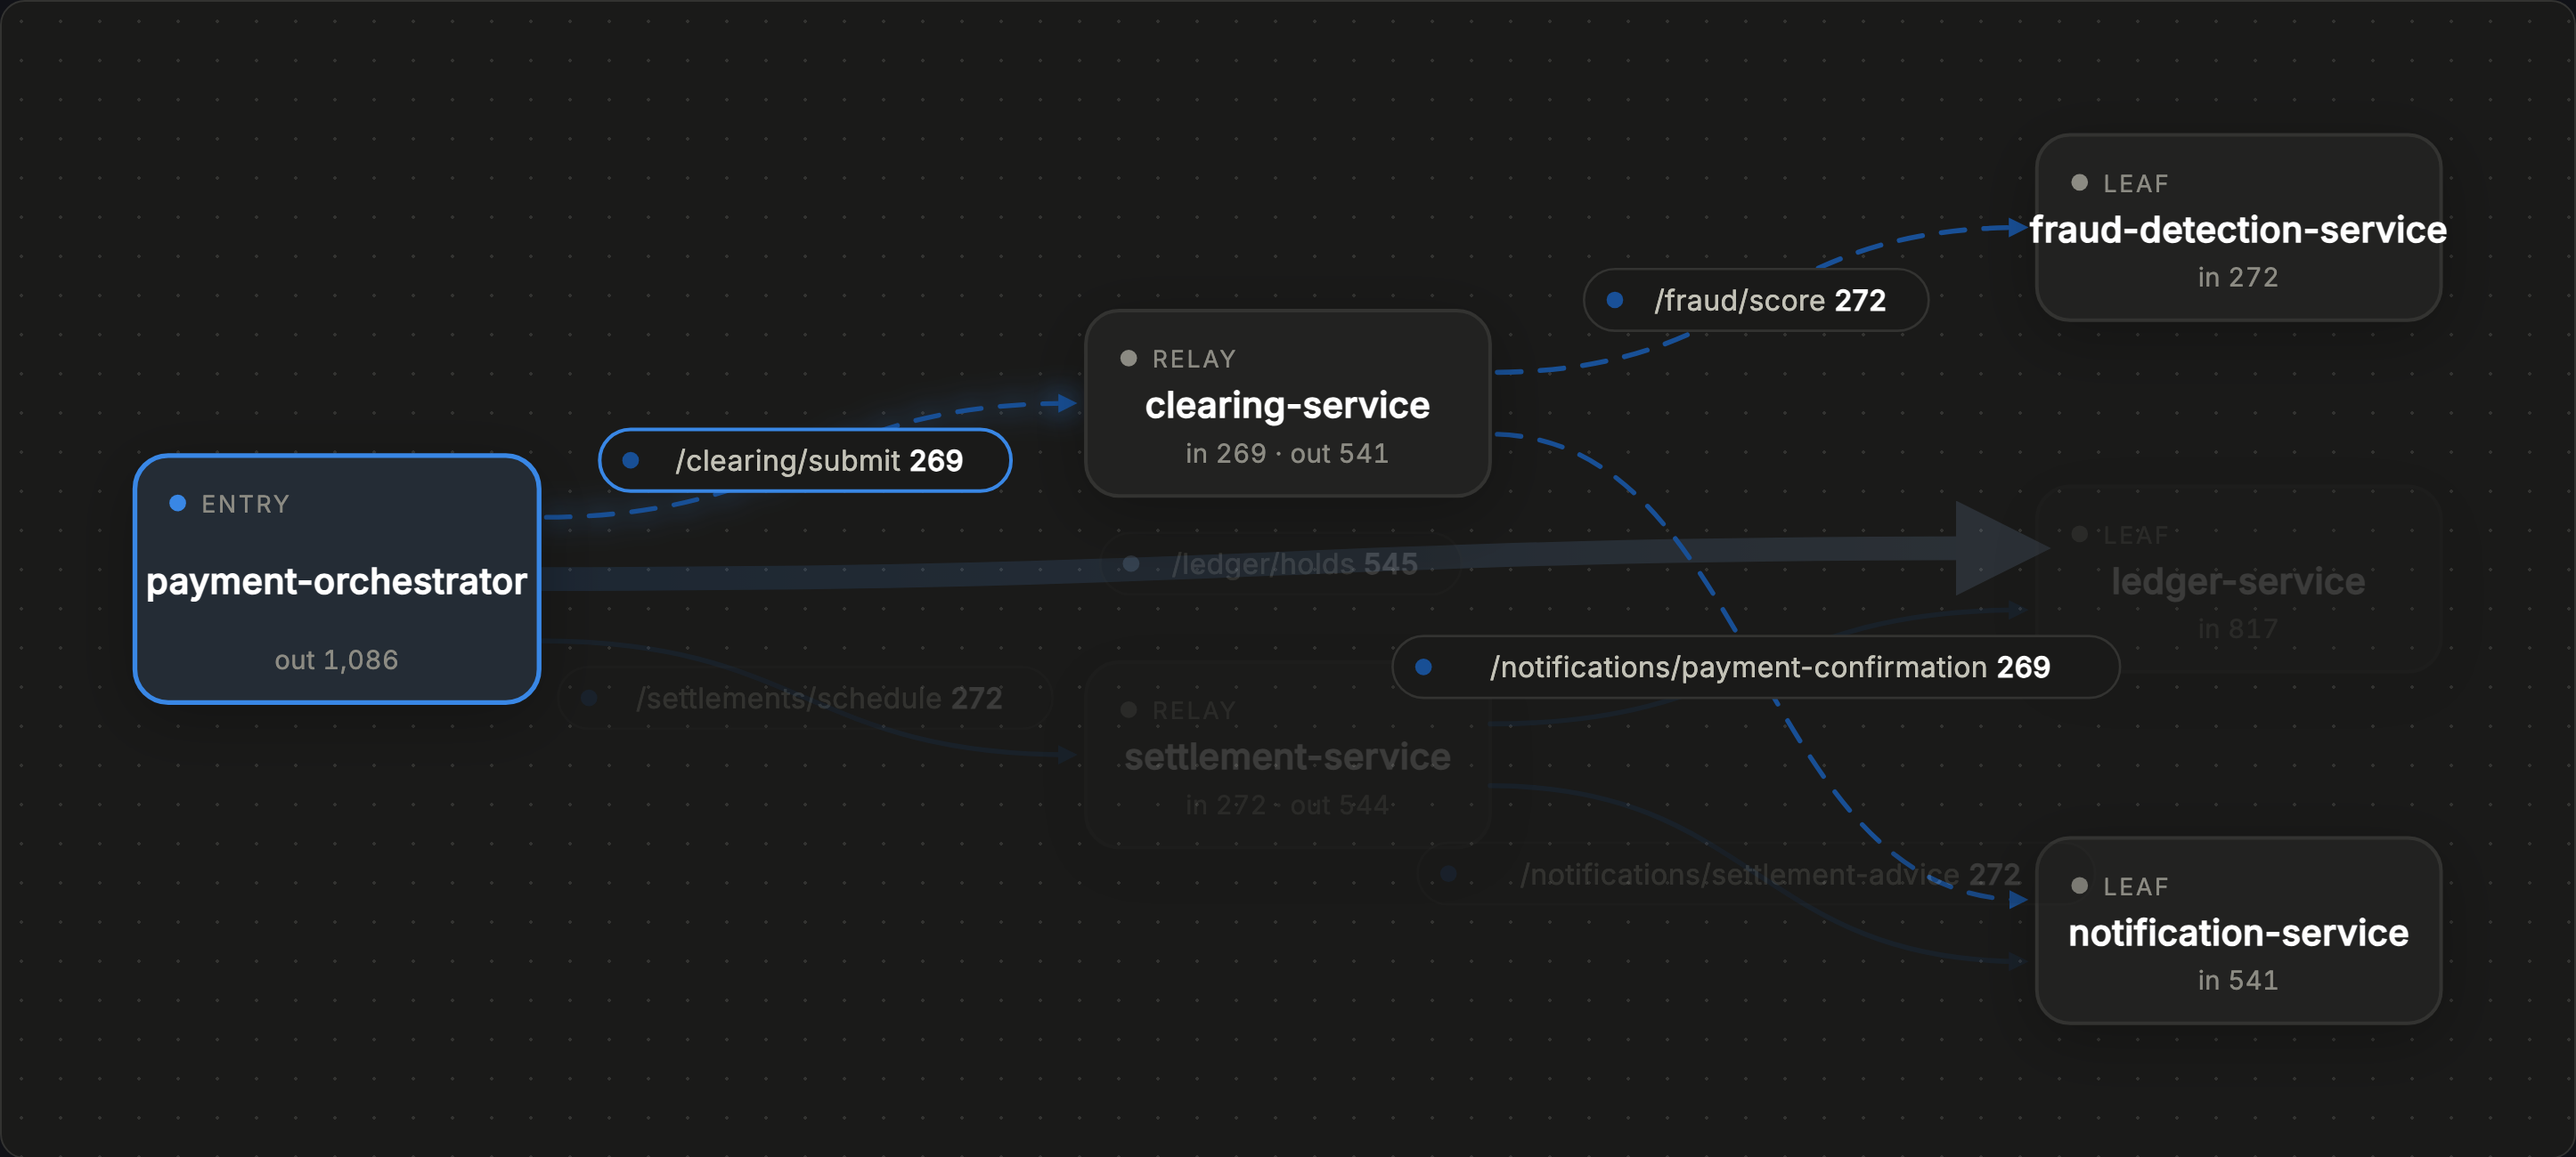
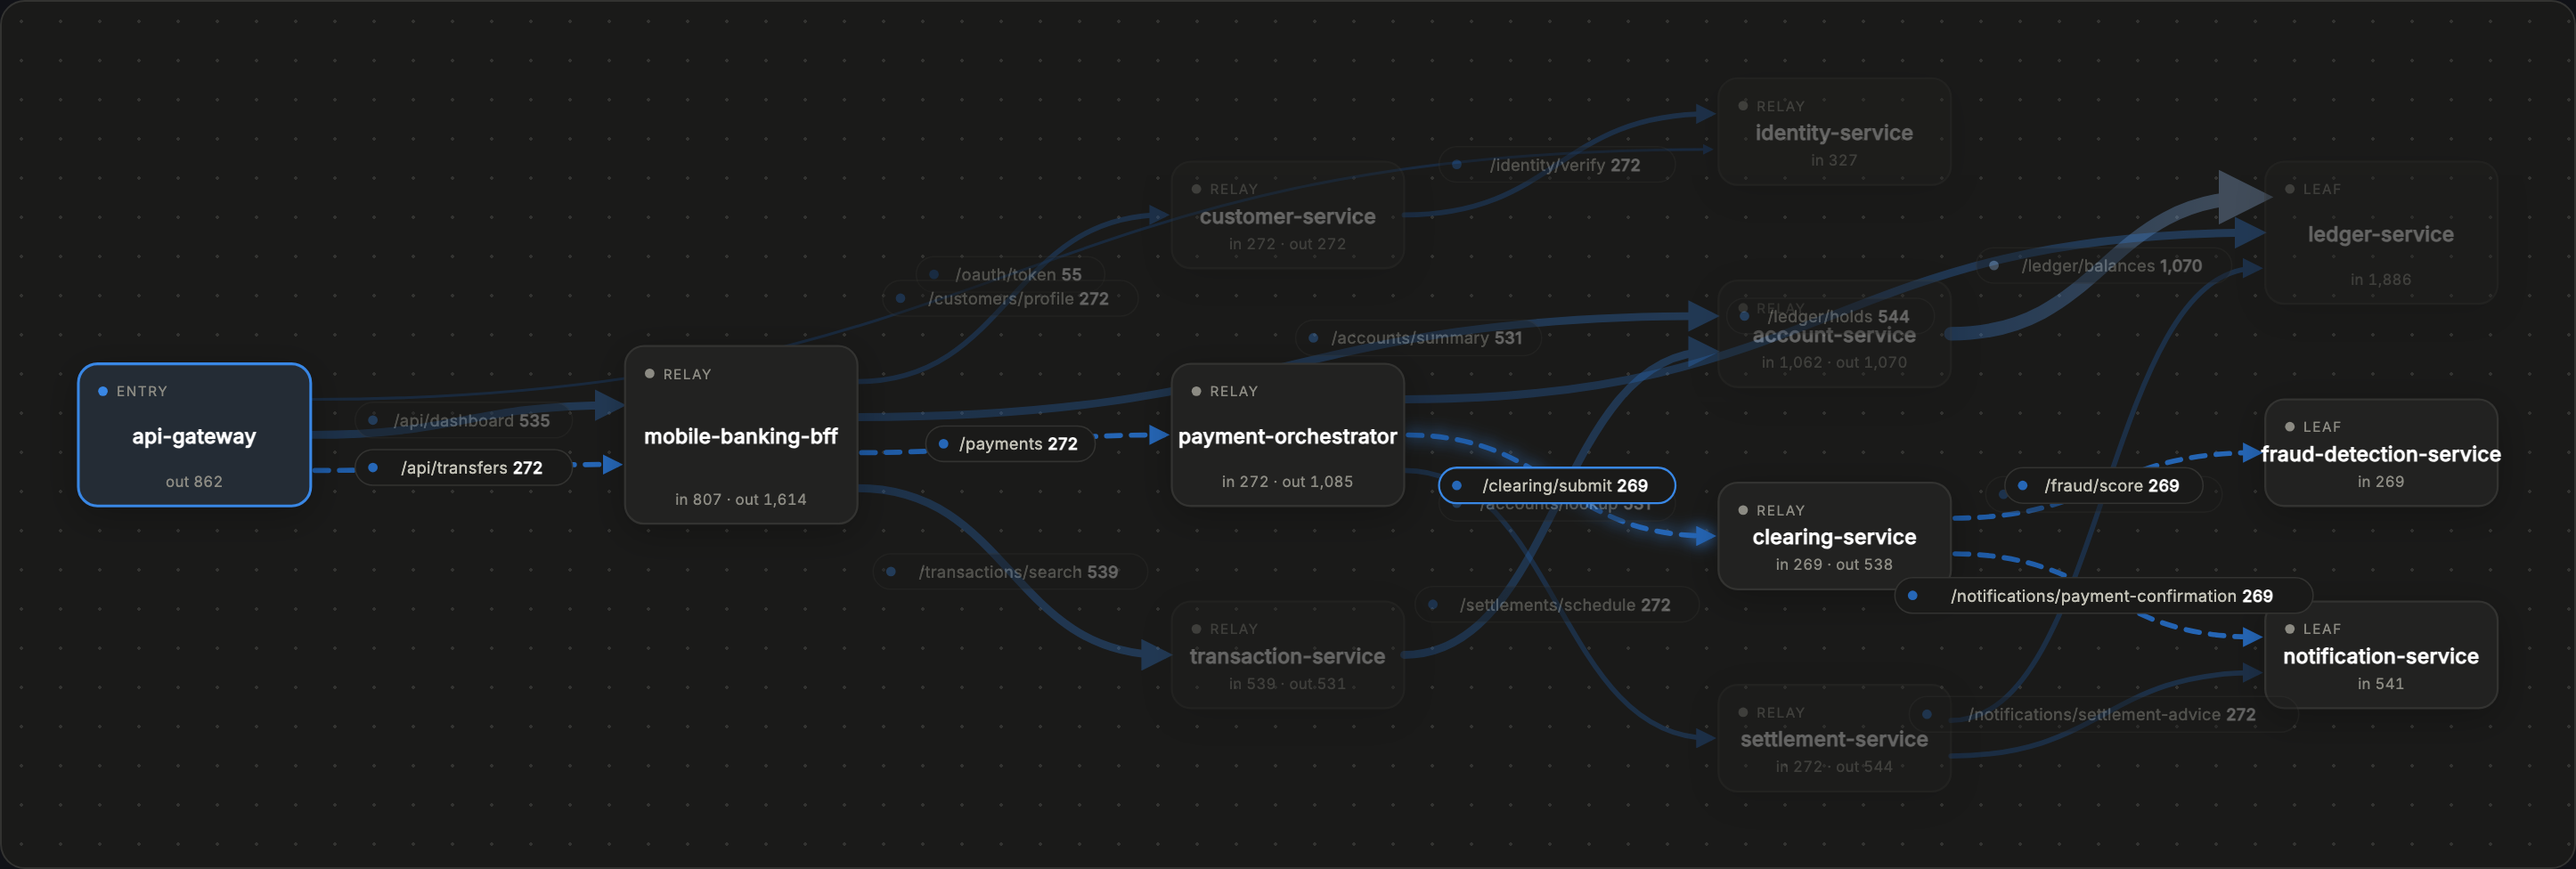
Show the whole mesh in the README screenshot and dim unrelated items less

diff --git a/grafana/html-dashboard/styles.css b/grafana/html-dashboard/styles.css
@@ -179,7 +179,7 @@
   font-weight: 700;
 }
 .service-map .dim {
-  opacity: 0.14;
+  opacity: 0.32;
 }
 .service-map .stat .sub {
   color: var(--text-secondary);

diff --git a/README.md b/README.md
@@ -1,6 +1,6 @@
 # Service map by URL
 
-![Service map of the calls made by payment-orchestrator: the edge to clearing-service is selected and its downstream calls to fraud-detection-service and notification-service are highlighted](docs/service-map-edge-selected.png)
+![Service map of the whole bank-like mesh behind api-gateway: the edge payment-orchestrator to clearing-service is selected, its call chain is highlighted and every other service stays visible but dimmed](docs/service-map-edge-selected.png)
 
 **An interactive service map in Grafana that shows, for any service and URL, every direct and transitive caller or callee, built purely from OpenTelemetry traces, logs and metrics.**
 
@@ -141,7 +141,7 @@ How it works: each outgoing call records the inbound route of its caller as span
 
 *Selecting an edge (see the picture at the top) highlights and animates it and its call chain, fades everything else, names it in the "Selected" bar and filters the table below to the edges in that chain.*
 
-A selection can be shared as a link: add `&select=edge:<caller>|<called>|<url>` or `&select=service:<name>` to the dashboard URL (and `&view=map` to hide everything but the map), e.g. `...service-map-html?var-mode=0&var-service=payment-orchestrator&select=edge:payment-orchestrator|clearing-service|/clearing/submit`.
+A selection can be shared as a link: add `&select=edge:<caller>|<called>|<url>` or `&select=service:<name>` to the dashboard URL (and `&view=map` to hide everything but the map), e.g. `...service-map-html?var-mode=0&var-service=api-gateway&select=edge:payment-orchestrator|clearing-service|/clearing/submit`.
 
 [Service map (HTML)](http://localhost:3000/d/servicemap-html/service-map-html) is the same map drawn as SVG by the Business Text panel (`marcusolsson-dynamictext-panel` 6.3.0, Handlebars templates, Apache-2.0, maintained by Grafana Labs). It uses the same dropdowns and adds:
 
